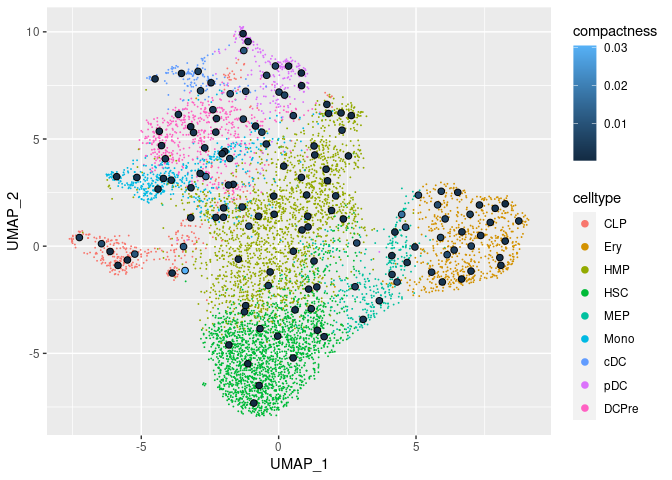
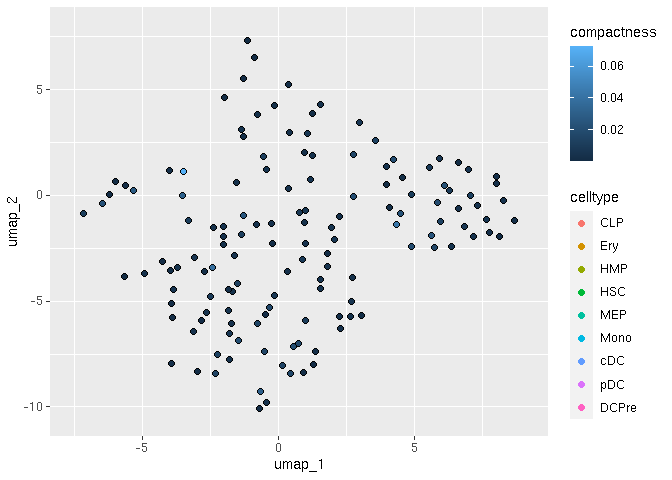
updated vignette

diff --git a/vignettes/MetacellAnalysisToolkit_vignette.md b/vignettes/MetacellAnalysisToolkit_vignette.md
@@ -1,159 +1,200 @@
--   <a href="#load-data" id="toc-load-data">Load data</a>
--   <a href="#compute-quantitative-metrics"
-    id="toc-compute-quantitative-metrics">Compute quantitative metrics</a>
-    -   <a href="#purity" id="toc-purity">Purity</a>
-    -   <a href="#compactness" id="toc-compactness">Compactness</a>
-    -   <a href="#separation" id="toc-separation">Separation</a>
-    -   <a href="#inv" id="toc-inv">INV</a>
--   <a href="#representativeness-of-metacells"
-    id="toc-representativeness-of-metacells">Representativeness of
-    metacells</a>
+---
+title: "MetacellAnalysisToolkit package"
+author: "Aurélie Gabriel, Léonard Hérault, Mariia Bilous and David Gfeller"
+date: "2023-12-20"
+output:
+  md_document:
+    toc: true # table of content true
+vignette: >
+  %\VignetteIndexEntry{MetacellAnalysisToolkit package}
+  %\VignetteEngine{knitr::rmarkdown}
+  %\VignetteEncoding{UTF-8}
+---
+
+
 
 ## Load data
 
-    library(MetacellAnalysisToolkit)
-    mc_data <- MetacellAnalysisToolkit::CD34_mc
-    sc_data <- MetacellAnalysisToolkit::CD34_sc
+
+```r
+library(MetacellAnalysisToolkit)
+mc_data <- MetacellAnalysisToolkit::CD34_mc
+sc_data <- MetacellAnalysisToolkit::CD34_sc
+```
 
 ## Compute quantitative metrics
 
 ### Purity
+After each metacell has been annotated to the most abundant cell category (*e.g.* cell type) composing the metacell, we can compute metacells purity. 
+If the annotation considered is the cell type, the **purity** of a metacell is the proportion of the most abundant
+cell type within the metacell.
 
-After each metacell has been annotated to the most abundant cell
-category (*e.g.* cell type) composing the metacell, we can compute
-metacells purity. If the annotation considered is the cell type, the
-**purity** of a metacell is the proportion of the most abundant cell
-type within the metacell.
+```r
+mc_data$purity <- mc_purity(membership = mc_data@misc$cell_membership$membership, annotation = sc_data$celltype)
+qc_boxplot(mc.obj = mc_data, qc.metrics = "purity")
+```
 
-    mc_data$purity <- mc_purity(membership = mc_data@misc$cell_membership$membership, annotation = sc_data$celltype)
-    qc_boxplot(mc.obj = mc_data, qc.metrics = "purity")
+![plot of chunk compute_purity](./MetacellAnalysisToolkit_vignette_files/compute_purity-1.png)
 
-![](./MetacellAnalysisToolkit_vignette_files/compute_purity-1.png)
+```r
+qc_boxplot(mc.obj = mc_data, qc.metrics = "purity", split.by = "celltype")
+```
 
-    qc_boxplot(mc.obj = mc_data, qc.metrics = "purity", split.by = "celltype")
-
-![](./MetacellAnalysisToolkit_vignette_files/compute_purity-2.png)
+![plot of chunk compute_purity](./MetacellAnalysisToolkit_vignette_files/compute_purity-2.png)
 
 ### Compactness
+The **compactness** of a metacell is the variance of the components within the metacell.
+The lower the compactness value the better.
 
-The **compactness** of a metacell is the variance of the components
-within the metacell. The lower the compactness value the better.
+This metric, as well as the separation metric, are computed based on a low embedding of the single-cell data, e.g. PCA embedding 
+which we generate in the next chunk.
 
-This metric, as well as the separation metric, are computed based on a
-low embedding of the single-cell data, e.g. PCA embedding which we
-generate in the next chunk.
 
-    library(Seurat)
-    sc_data <- NormalizeData(sc_data, normalization.method = "LogNormalize")
-    sc_data <- FindVariableFeatures(sc_data, nfeatures = 2500)
-    sc_data <- ScaleData(sc_data)
+```r
+library(Seurat)
+sc_data <- NormalizeData(sc_data, normalization.method = "LogNormalize")
+sc_data <- FindVariableFeatures(sc_data, nfeatures = 2500)
+sc_data <- ScaleData(sc_data)
+```
 
-    ## Centering and scaling data matrix
+```
+## Centering and scaling data matrix
+```
 
-    sc_data <- RunPCA(sc_data, npcs = 50, verbose = F)
-    sc_data <- RunUMAP(sc_data, reduction = "pca", dims = c(1:50), n.neighbors = 15, verbose = F, min.dist = 0.5)
-    UMAPPlot(sc_data, group.by = "celltype", reduction = "umap")
+```r
+sc_data <- RunPCA(sc_data, npcs = 50, verbose = F)
+sc_data <- RunUMAP(sc_data, reduction = "pca", dims = c(1:50), n.neighbors = 15, verbose = F, min.dist = 0.5)
+UMAPPlot(sc_data, group.by = "celltype", reduction = "umap")
+```
 
-![](./MetacellAnalysisToolkit_vignette_files/sc-embessing-1.png)
+![plot of chunk sc-embessing](./MetacellAnalysisToolkit_vignette_files/sc-embessing-1.png)
 
-    membership_df <- mc_data@misc$cell_membership
-    mc_data$compactness <- mc_compactness(cell.membership = membership_df, sc.obj = sc_data,
-                                          sc.reduction = "pca", n.components = 30, diffusion.components = T)
+We compute these metrics in a diffusion map obtained from the pca.
 
-    ## Computing compactness ...
+```r
+membership_df <- mc_data@misc$cell_membership
+diffusion_comp <- get_diffusion_comp(sc.obj = sc_data, dims = 1:30)
+```
 
-    qc_boxplot(mc.obj = mc_data, qc.metrics = "compactness")
+```
+## Computing diffusion maps ...
+```
 
-![](./MetacellAnalysisToolkit_vignette_files/compute_compactness-1.png)
+```
+## Determing nearest neighbor graph...
+```
 
-    qc_boxplot(mc.obj = mc_data, qc.metrics = "compactness", split.by = "celltype")
+```r
+mc_data$compactness <- mc_compactness(cell.membership = membership_df,
+                                      sc.obj = sc_data,
+                                      sc.reduction = diffusion_comp)
+qc_boxplot(mc.obj = mc_data, qc.metrics = "compactness")
+```
 
-![](./MetacellAnalysisToolkit_vignette_files/compute_compactness-2.png)
+![plot of chunk compute_compactness](./MetacellAnalysisToolkit_vignette_files/compute_compactness-1.png)
+
+```r
+qc_boxplot(mc.obj = mc_data, qc.metrics = "compactness", split.by = "celltype")
+```
+
+![plot of chunk compute_compactness](./MetacellAnalysisToolkit_vignette_files/compute_compactness-2.png)
 
 ### Separation
+The **separation** of a metacell is the distance to the closest metacell [@SEACells].
+The higher the separation value the better.
 
-The **separation** of a metacell is the distance to the closest metacell
-\[@SEACells\]. The higher the separation value the better.
 
-    mc_data$separation <- mc_separation(cell.membership = membership_df, sc.obj = sc_data, sc.reduction = "pca", diffusion.components = T)
+```r
+mc_data$separation <- mc_separation(cell.membership = membership_df, 
+                                    sc.obj = sc_data, 
+                                    sc.reduction = diffusion_comp)
+qc_boxplot(mc.obj = mc_data, qc.metrics = "separation")
+```
 
-    ## Computing separation ...
+![plot of chunk compute_separation](./MetacellAnalysisToolkit_vignette_files/compute_separation-1.png)
 
-    qc_boxplot(mc.obj = mc_data, qc.metrics = "separation")
+```r
+qc_boxplot(mc.obj = mc_data, qc.metrics = "separation", split.by = "celltype")
+```
 
-![](./MetacellAnalysisToolkit_vignette_files/compute_separation-1.png)
+![plot of chunk compute_separation](./MetacellAnalysisToolkit_vignette_files/compute_separation-2.png)
 
-    qc_boxplot(mc.obj = mc_data, qc.metrics = "separation", split.by = "celltype")
-
-![](./MetacellAnalysisToolkit_vignette_files/compute_separation-2.png)
 
 ### INV
+The **inner normalized variance (INV)** of a metacell is the mean-normalized variance of gene expression within the metacell.
+The lower the INV value the better.
+Note that it is the only metric that is latent-space independent.
 
-The **inner normalized variance (INV)** of a metacell is the
-mean-normalized variance of gene expression within the metacell. The
-lower the INV value the better. Note that it is the only metric that is
-latent-space independent.
 
-    mc_data$INV <- mc_INV(cell.membership = membership_df, sc.obj = sc_data, group.label = "membership")
+```r
+mc_data$INV <- mc_INV(cell.membership = membership_df, sc.obj = sc_data, group.label = "membership")
+```
 
-    ## Computing INV ...
+```
+## Computing INV ...
+```
 
-    qc_boxplot(mc.obj = mc_data, qc.metrics = "INV")
+```r
+qc_boxplot(mc.obj = mc_data, qc.metrics = "INV")
+```
 
-![](./MetacellAnalysisToolkit_vignette_files/compute_INV-1.png)
+![plot of chunk compute_INV](./MetacellAnalysisToolkit_vignette_files/compute_INV-1.png)
 
-    qc_boxplot(mc.obj = mc_data, qc.metrics = "INV", split.by = "celltype")
+```r
+qc_boxplot(mc.obj = mc_data, qc.metrics = "INV", split.by = "celltype")
+```
 
-![](./MetacellAnalysisToolkit_vignette_files/compute_INV-2.png)
+![plot of chunk compute_INV](./MetacellAnalysisToolkit_vignette_files/compute_INV-2.png)
 
 ## Representativeness of metacells
+To visualize the metacells, we can project the metacells on the single-cell UMAP representation using the `mc_projection()` function (adapted from the `plot.plot_2D()` from the SEACells package).
+A good metacell partition should reproduce the overall structure of the single-cell data by uniformly representing the latent space.
+To use this function we need the data at the single-cell level (or at least an low-dimensional embedding of the data) and the single-cell membership to each the metacell.
 
-To visualize the metacells, we can project the metacells on the
-single-cell UMAP representation using the `mc_projection()` function
-(adapted from the `plot.plot_2D()` from the SEACells package). A good
-metacell partition should reproduce the overall structure of the
-single-cell data by uniformly representing the latent space. To use this
-function we need the data at the single-cell level (or at least an
-low-dimensional embedding of the data) and the single-cell membership to
-each the metacell.
 
-    mc_projection(
-      sc.obj = sc_data,
-      mc.obj = mc_data,
-      cell.membership = membership_df,
-      sc.reduction = "umap",
-      sc.label = "celltype", # single cells will be colored according the sc.label
-      metacell.label = "celltype" # metacells cell will be colored according the metacell.label
-      )
+```r
+mc_projection(
+  sc.obj = sc_data,
+  mc.obj = mc_data,
+  cell.membership = membership_df,
+  sc.reduction = "umap",
+  sc.label = "celltype", # single cells will be colored according the sc.label
+  metacell.label = "celltype" # metacells cell will be colored according the metacell.label
+  )
+```
 
-![](./MetacellAnalysisToolkit_vignette_files/visualize_metacells-1.png)
+![plot of chunk visualize_metacells](./MetacellAnalysisToolkit_vignette_files/visualize_metacells-1.png)
 
-    # with custom colors:
-    colors <- c("HMP" = "#BC80BD", "DCPre" = "#66A61E", "HSC" = "#A6761D",
-                "Ery" = "#E41A1C", "MEP" = "#B3B3B3", "cDC" = "#A6D854", "CLP" = "#1F78B4", "Mono" = "#E6AB02", "pDC" = "#B2DF8A" )
-    mc_projection(sc.obj = sc_data,
-      mc.obj = mc_data,
-      cell.membership = membership_df,
-      sc.reduction = "umap",
-      sc.label = "celltype", # single cells will be colored according the sc.label
-      metacell.label = "celltype", # metacells cell will be colored according the metacell.label
-      sc.color = colors,
-      mc.color = colors)
+```r
+# with custom colors:
+colors <- c("HMP" = "#BC80BD", "DCPre" = "#66A61E", "HSC" = "#A6761D",
+            "Ery" = "#E41A1C", "MEP" = "#B3B3B3", "cDC" = "#A6D854", "CLP" = "#1F78B4", "Mono" = "#E6AB02", "pDC" = "#B2DF8A" )
+mc_projection(sc.obj = sc_data,
+  mc.obj = mc_data,
+  cell.membership = membership_df,
+  sc.reduction = "umap",
+  sc.label = "celltype", # single cells will be colored according the sc.label
+  metacell.label = "celltype", # metacells cell will be colored according the metacell.label
+  sc.color = colors,
+  mc.color = colors)
+```
 
-![](./MetacellAnalysisToolkit_vignette_files/visualize_metacells-2.png)
+![plot of chunk visualize_metacells](./MetacellAnalysisToolkit_vignette_files/visualize_metacells-2.png)
 
-By default the size of the metacells dots is proportionnal to the size
-of the metacells. Metacells can also be colored by a continuous variable
-such as one of the QC metrics computed in the previous chunks:
+By default the size of the metacells dots is proportionnal to the size of the metacells.
+Metacells can also be colored by a continuous variable such as one of the QC metrics computed in the previous chunks:
 
-    mc_projection(
-      sc.obj = sc_data,
-      mc.obj = mc_data,
-      cell.membership = membership_df,
-      sc.reduction = "umap",
-      sc.label = "celltype", # single cells will be colored according the sc.label
-      continuous_metric = TRUE,
-      metric = "compactness"
-      )
 
-![](./MetacellAnalysisToolkit_vignette_files/visualize_metacells_continuous-1.png)
+```r
+mc_projection(
+  sc.obj = sc_data,
+  mc.obj = mc_data,
+  cell.membership = membership_df,
+  sc.reduction = "umap",
+  sc.label = "celltype", # single cells will be colored according the sc.label
+  continuous_metric = TRUE,
+  metric = "compactness"
+  )
+```
+
+![plot of chunk visualize_metacells_continuous](./MetacellAnalysisToolkit_vignette_files/visualize_metacells_continuous-1.png)
